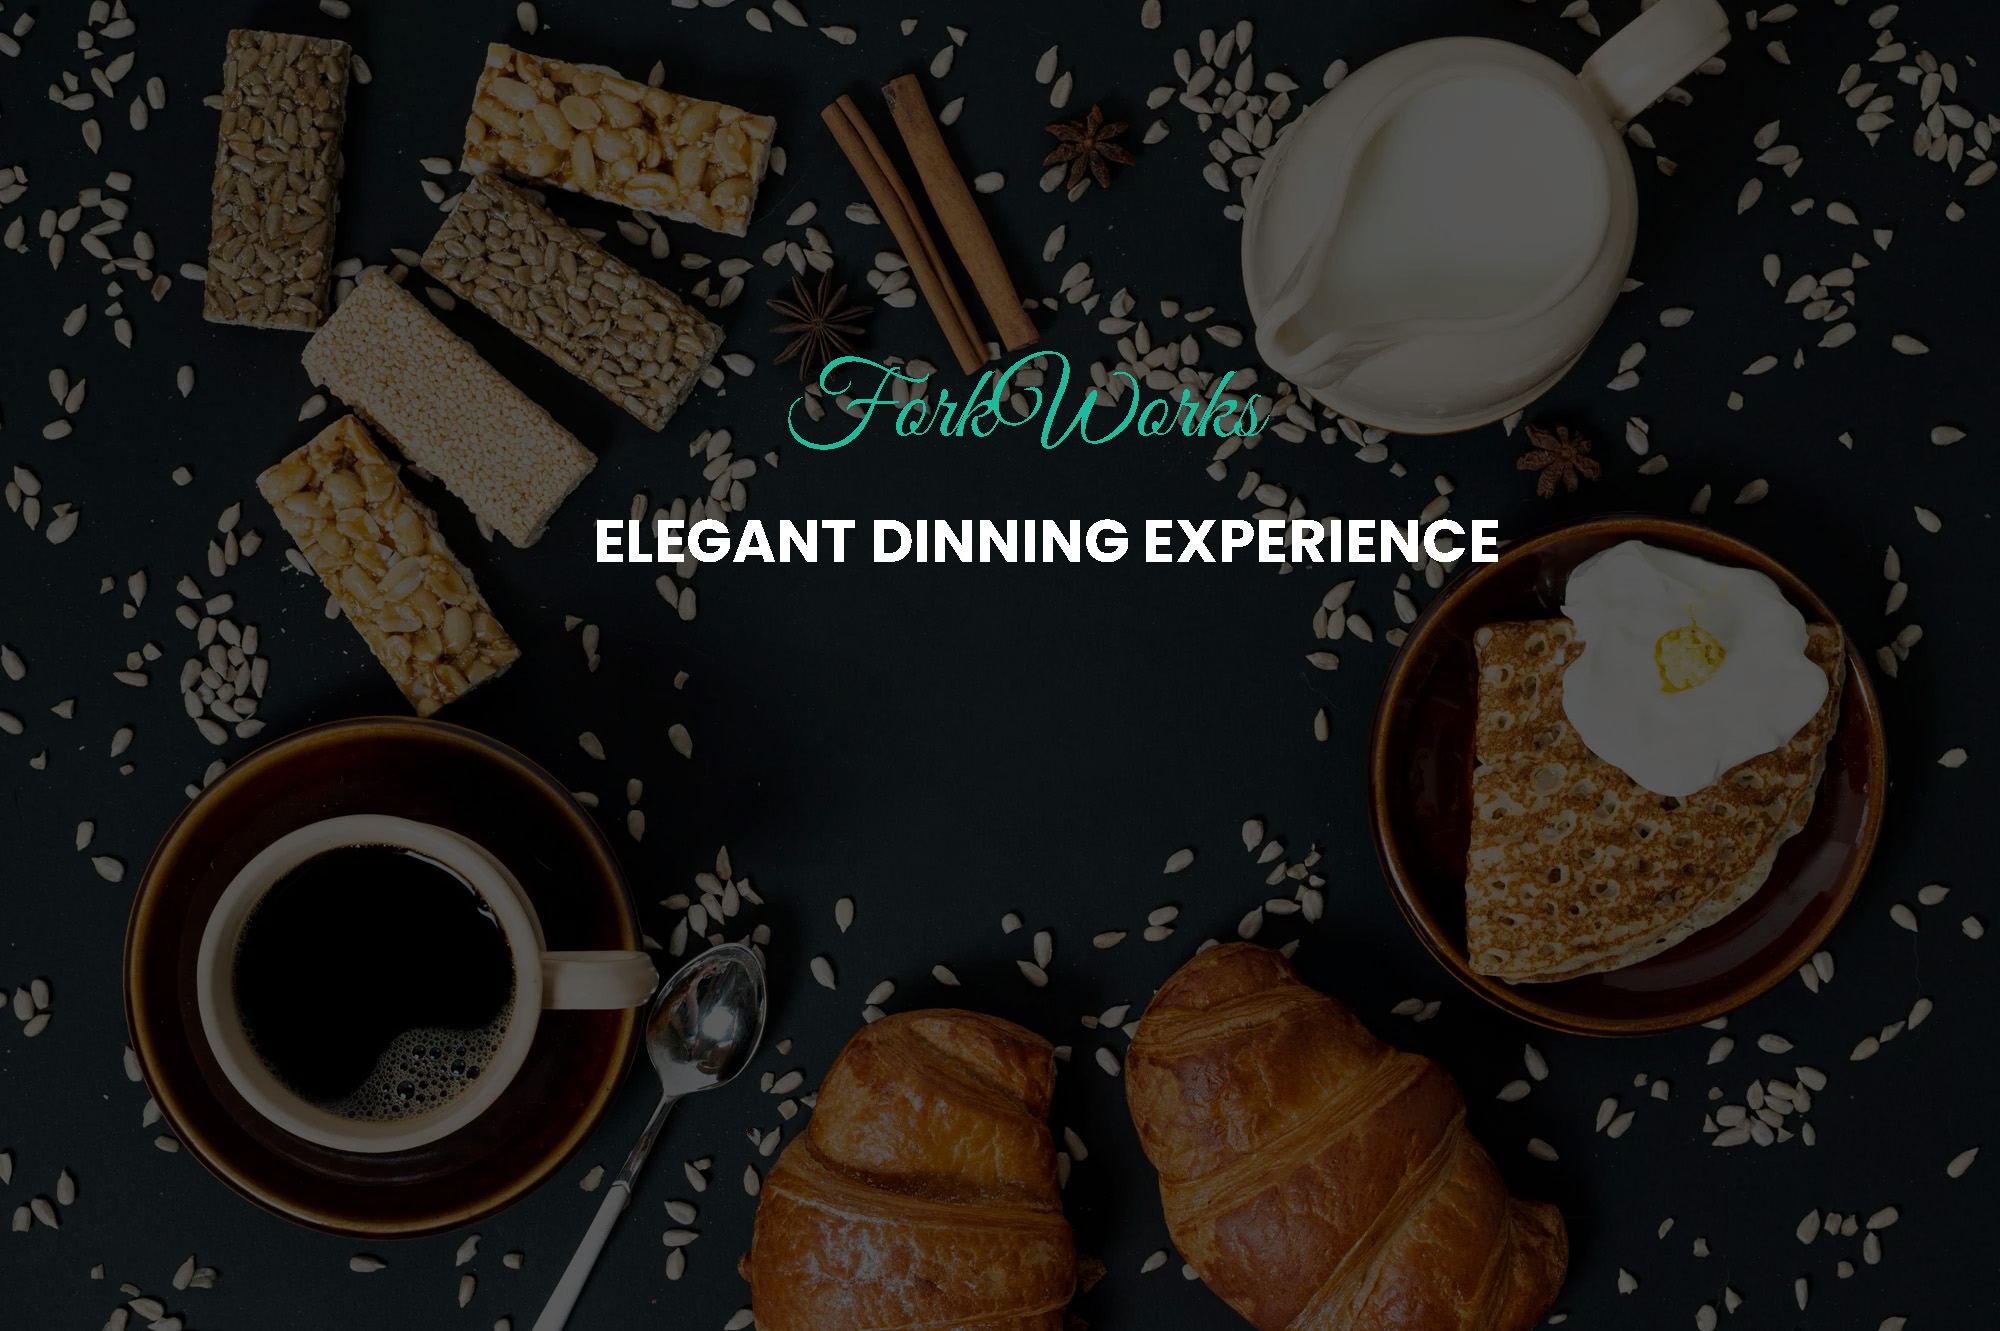
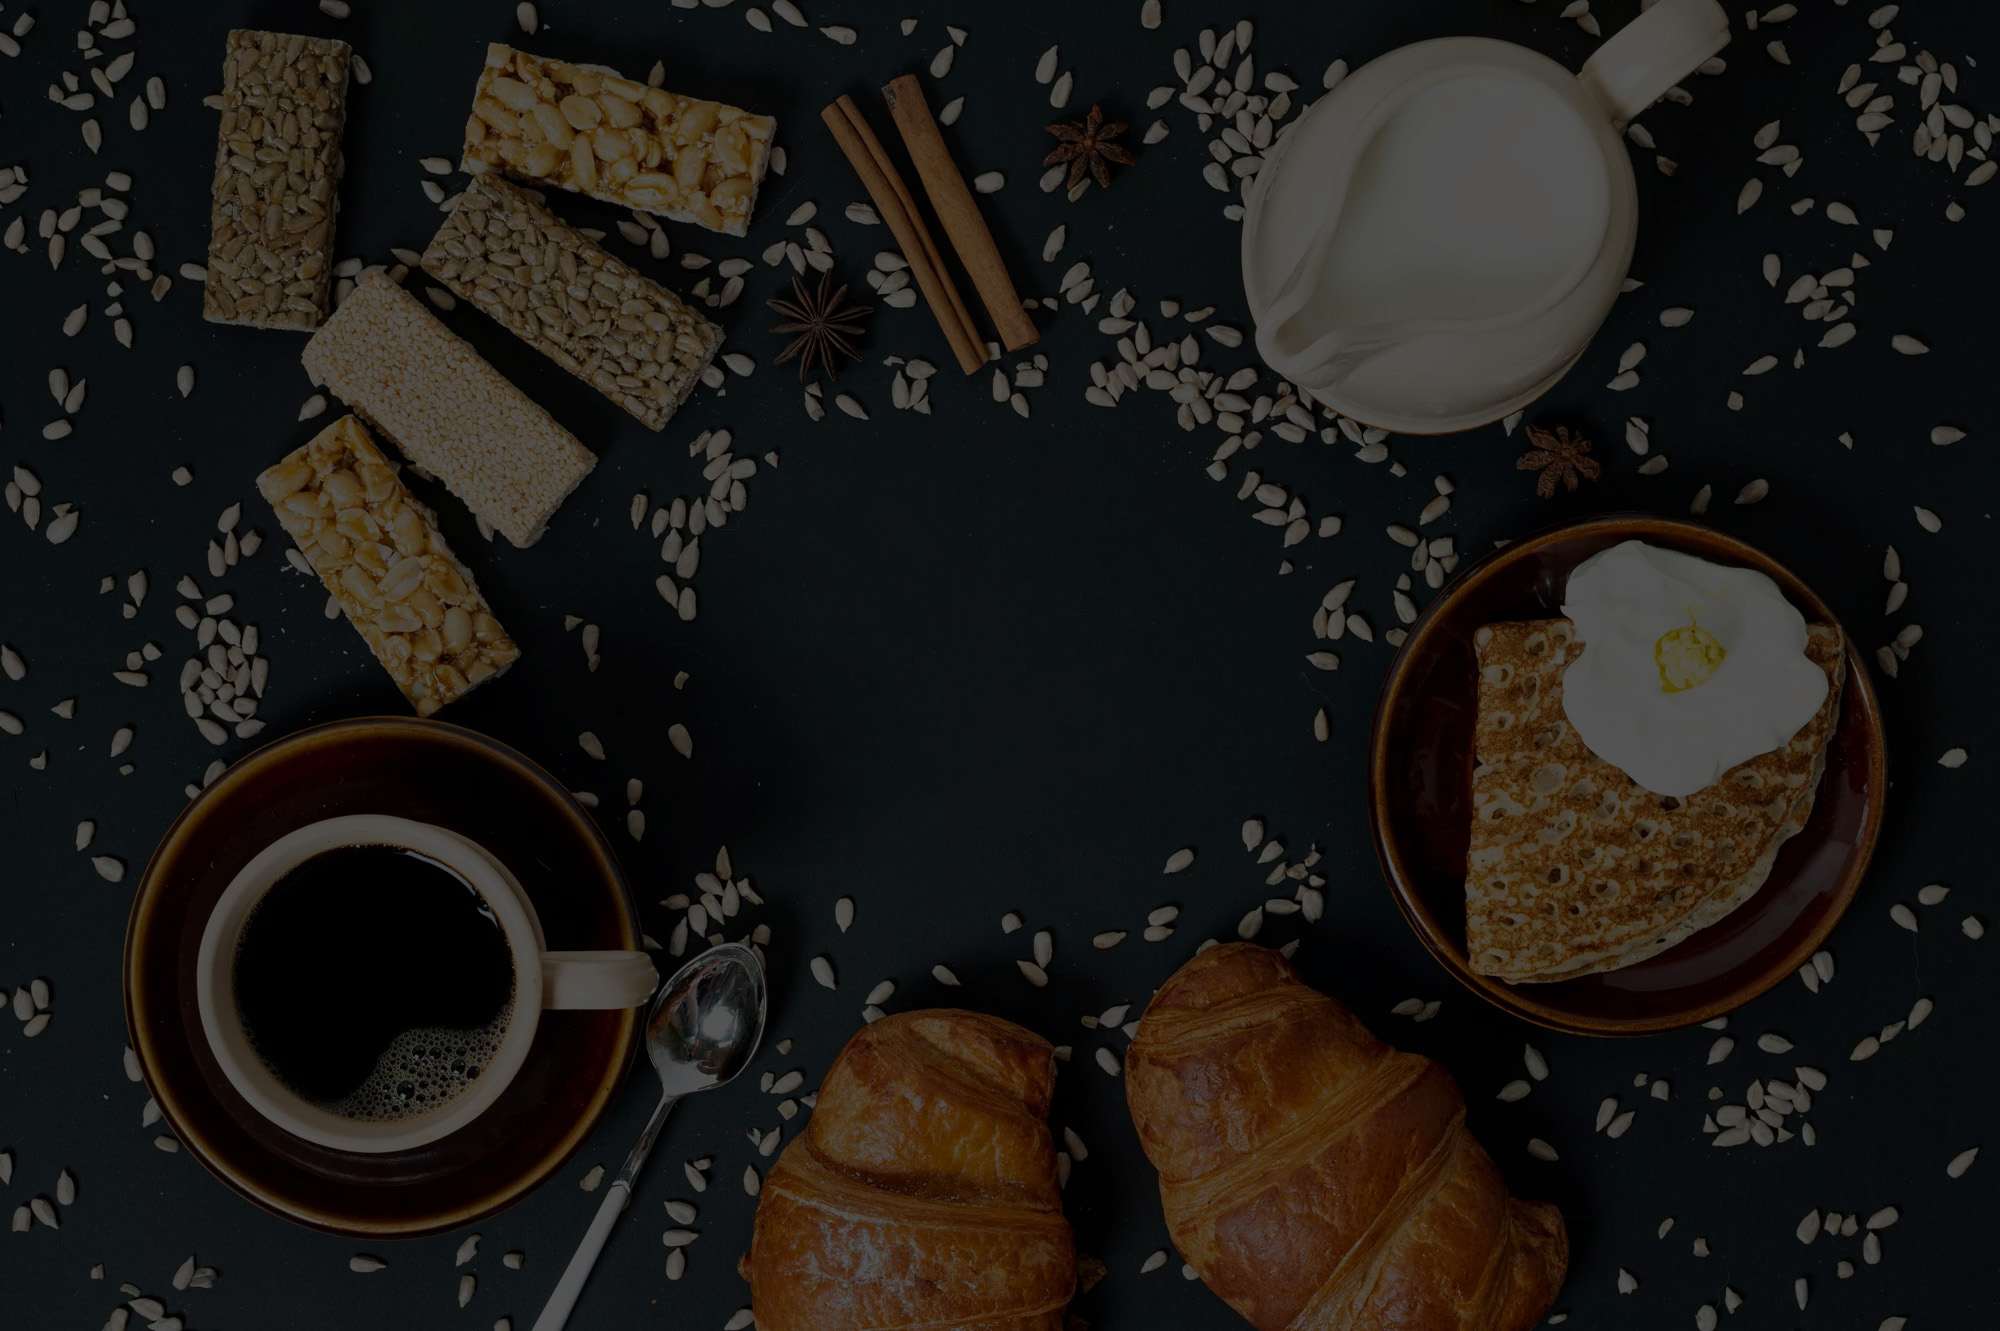
mobile responsive changes and home slider corrected with text

Changed region(s): [[0.279, 0.3696, 0.744, 0.4313], [0.403, 0.2772, 0.62, 0.3388]]

diff --git a/css/style.css b/css/style.css
@@ -1589,6 +1589,35 @@ svg{
     padding-left: 40px !important;
     padding-right: 40px !important;
 }
+.slider-packs{
+    position: absolute;
+}
+.brand-mark-home{
+    background:none !important;
+    position:absolute;
+    top:30%;
+    left:50%;
+    transform: translate(-50%,-50%);
+    z-index:99;
+    font-family: "Great Vibes", cursive;
+    font-size:60px;
+    color:#1bbc9b;
+    font-weight:800;
+}
+.home-slider-txt{
+    position:absolute;
+    width:100%;
+    top:35%;
+    z-index:99;
+    font-size: 60px;
+    color: #fff;
+    line-height: 1.5;
+    font-weight: normal;
+    font-family: "Poppins", Arial, sans-serif;
+    letter-spacing: 4px;
+    text-transform: uppercase;
+    font-weight: 600;
+}
 @media screen and (max-width: 720px) and (min-width: 300px) {
     .home-item-display{
         background:#000;
@@ -1608,6 +1637,7 @@ svg{
     }
     .blog-card{
         margin-bottom:50px;
+        padding:16px;
     }
     .cust-t-card{
         margin-bottom:60px !important;
@@ -1618,6 +1648,8 @@ svg{
     }
     .chef-card{
         margin-bottom:50px;
+        padding-left:0px !important;
+        padding-right:0px !important;
     }
     .menu-rate{
         text-align:right;
@@ -1645,9 +1677,9 @@ svg{
     .para{
         text-align: center;
     }
-    /* .gold-txt{
-        text-align: center !important;
-    } */
+    .gold-txt{
+        font-size:35px;
+    }
     .subheading{
         font-size:80px;
         text-align:center;
@@ -1660,6 +1692,7 @@ svg{
     } */
     .heading-section{
         text-align:center;
+        font-size:40px;
     }
     .p-15{
         margin-bottom:50px;
@@ -1713,11 +1746,19 @@ svg{
     .bg-pack{
         display:none !important;
     }
+    .para-width{
+        padding-left:0px;
+    }
     .home-item-display{
         display:none !important;
         z-index:1;
         visibility: hidden;
     }
+    .about-dtls-cont{
+        padding-top:20px !important;
+        padding-left:15px !important;
+        padding-right:15px !important;
+    } 
     .home-item-display-sm{
         display: none;
     }
@@ -1728,24 +1769,51 @@ svg{
         margin-top:50px;
     }
     .footer-social-pack{
-        width:35%;
+        width: 100%;
+        text-align: center;
+        margin: 30px 0px;
     }
-    /* #scrollNav{
+    .footer-social {
+        background: rgba(0, 0, 0, 0.00);
+    }
+    #scrollNav{
         display:none !important;
-    } */
-    .scrl-nav{
-        margin-bottom:0px;
-        color:#000000 !important;
-        position: relative;
-        display: flex;
-        flex-direction: column;
-        flex-wrap: wrap;
-        align-items: center;
-        justify-content: space-evenly;
-        padding-top: 0px !important;
-        padding-bottom: 0px !important;
-        margin-bottom:0px !important;
-        transition: 0.5s;
-        z-index:99999999;
     }
+    .slick-track{
+        height:100vh;
+    }
+    .count-caption{
+        font-weight:700;
+    }
+    .section-bg{
+        padding:20px 0px;
+    }
+    .sc-mt{
+        padding-top:35px;
+        padding-left:0px !important;
+        padding-right:0px !important;
+    }
+    .sec-p {
+        padding: 3em 0;
+    }
+    .tmony-txt-pack {
+        padding: 0rem !important;
+    }
+    .p-15{
+        margin-bottom:0px;
+    }
+    .home-slider-txt{
+        font-size:35px;
+    }
+    .brand-mark-home{
+        font-size:45px;
+    }
+
+}
+
+
+@media screen and (max-width: 319px) and (min-width: 5px) {
+ body{
+     display:none !important;
+ }
 }

diff --git a/index.html b/index.html
@@ -67,6 +67,11 @@
     slidesToScroll: 1,
     autoplay: true,
     autoplaySpeed: 3000,
+    infinite: true,
+    speed: 800,
+    arrows:true,
+    fade: true,
+    cssEase: 'linear'
   });
 });
   </script>
@@ -115,7 +120,7 @@
 
   <!--Navbar Small-->
   <div class="small-nav w-100">
-    <nav class="navbar sticky-top mb-none p-3">
+    <nav class="navbar mb-none p-3">
       <div class="w-100 d-flex flex-row justify-content-between">
         <a class="navbar-brand logo" href="index.html">ForkWorks<span class="tag-line">...Exotic food paradise</span></a>
           <button class="navbar-toggler" type="button" data-bs-toggle="collapse" data-bs-target="#navbarSupportedContent" aria-controls="navbarSupportedContent" aria-expanded="false" aria-label="Toggle navigation">
@@ -151,9 +156,22 @@
 
 <!-- Big Screen Navbar Starts Here -->
 <div class="home-slider">
-  <img src="img/slide1.jpg" class="slider-imgs img-fluid" alt="slider-img-1"/>
-  <img src="img/slide2.png" class="slider-imgs img-fluid" alt="slider-img-2"/>
-  <img src="img/slide3.jpg" class="slider-imgs img-fluid" alt="slider-img-3"/>
+  
+  <div class="text-center slider-packs">
+    <p class="brand-mark-home">Forkworks</p>
+    <p class="home-slider-txt">ELEGANT DINNING</p>
+    <img src="img/slide1.jpg" class="slider-imgs" alt="slider-img-1"/>
+  </div>
+  <div class="text-center slider-packs">
+    <p class="brand-mark-home">Forkworks</p>
+    <p class="home-slider-txt">Nutritious & Tasty</p>
+    <img src="img/slide2.jpg" class="slider-imgs" alt="slider-img-2"/>
+  </div>
+  <div class="text-center slider-packs">
+    <p class="brand-mark-home">Forkworks</p>
+    <p class="home-slider-txt">Delicious Specialties</p>
+    <img src="img/slide3.jpg" class="slider-imgs" alt="slider-img-3"/>
+  </div>
 </div>
 <div class="container-fluid d-flex flex-column home">
 
